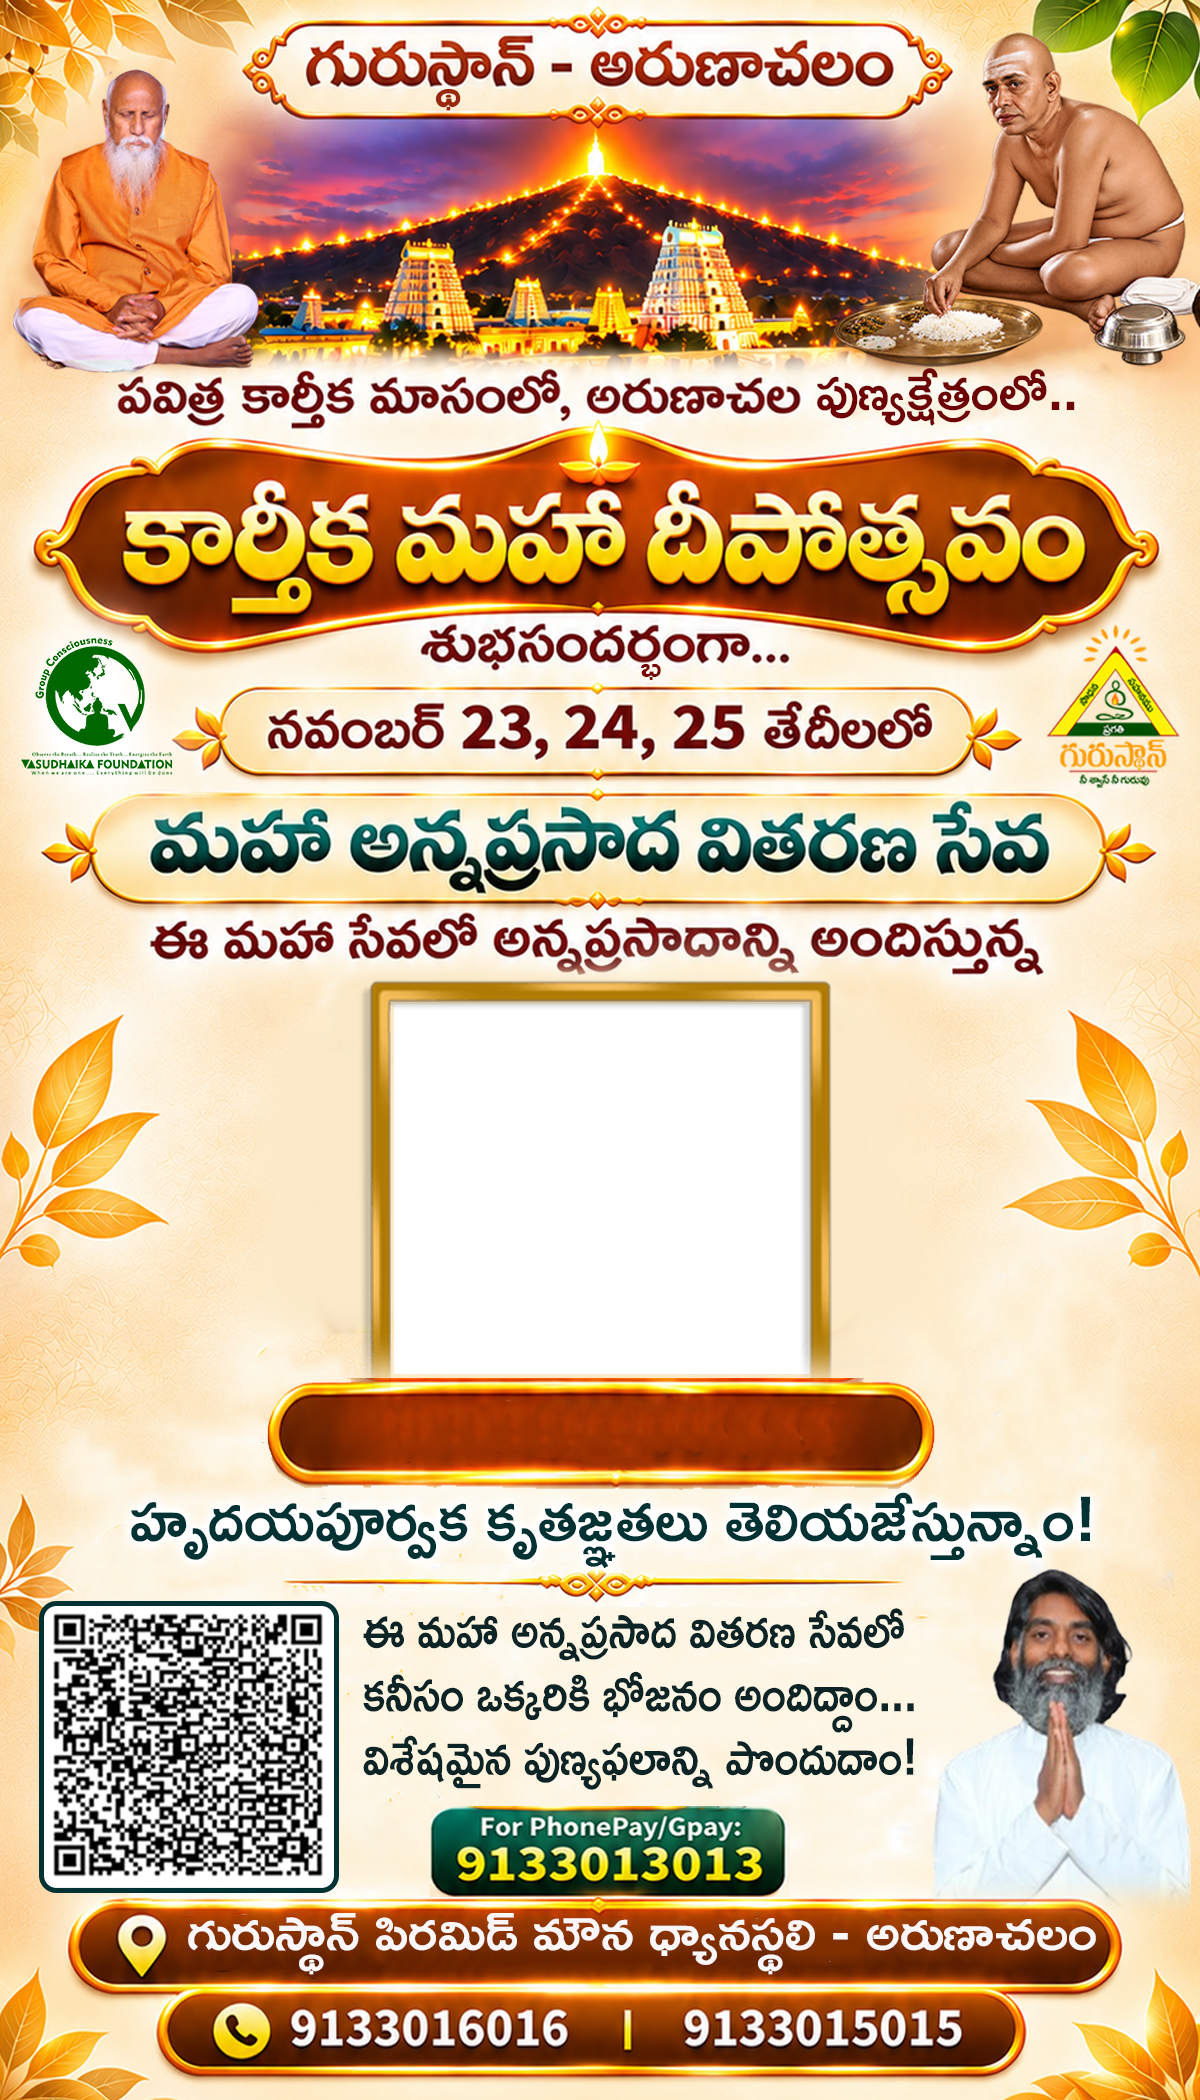
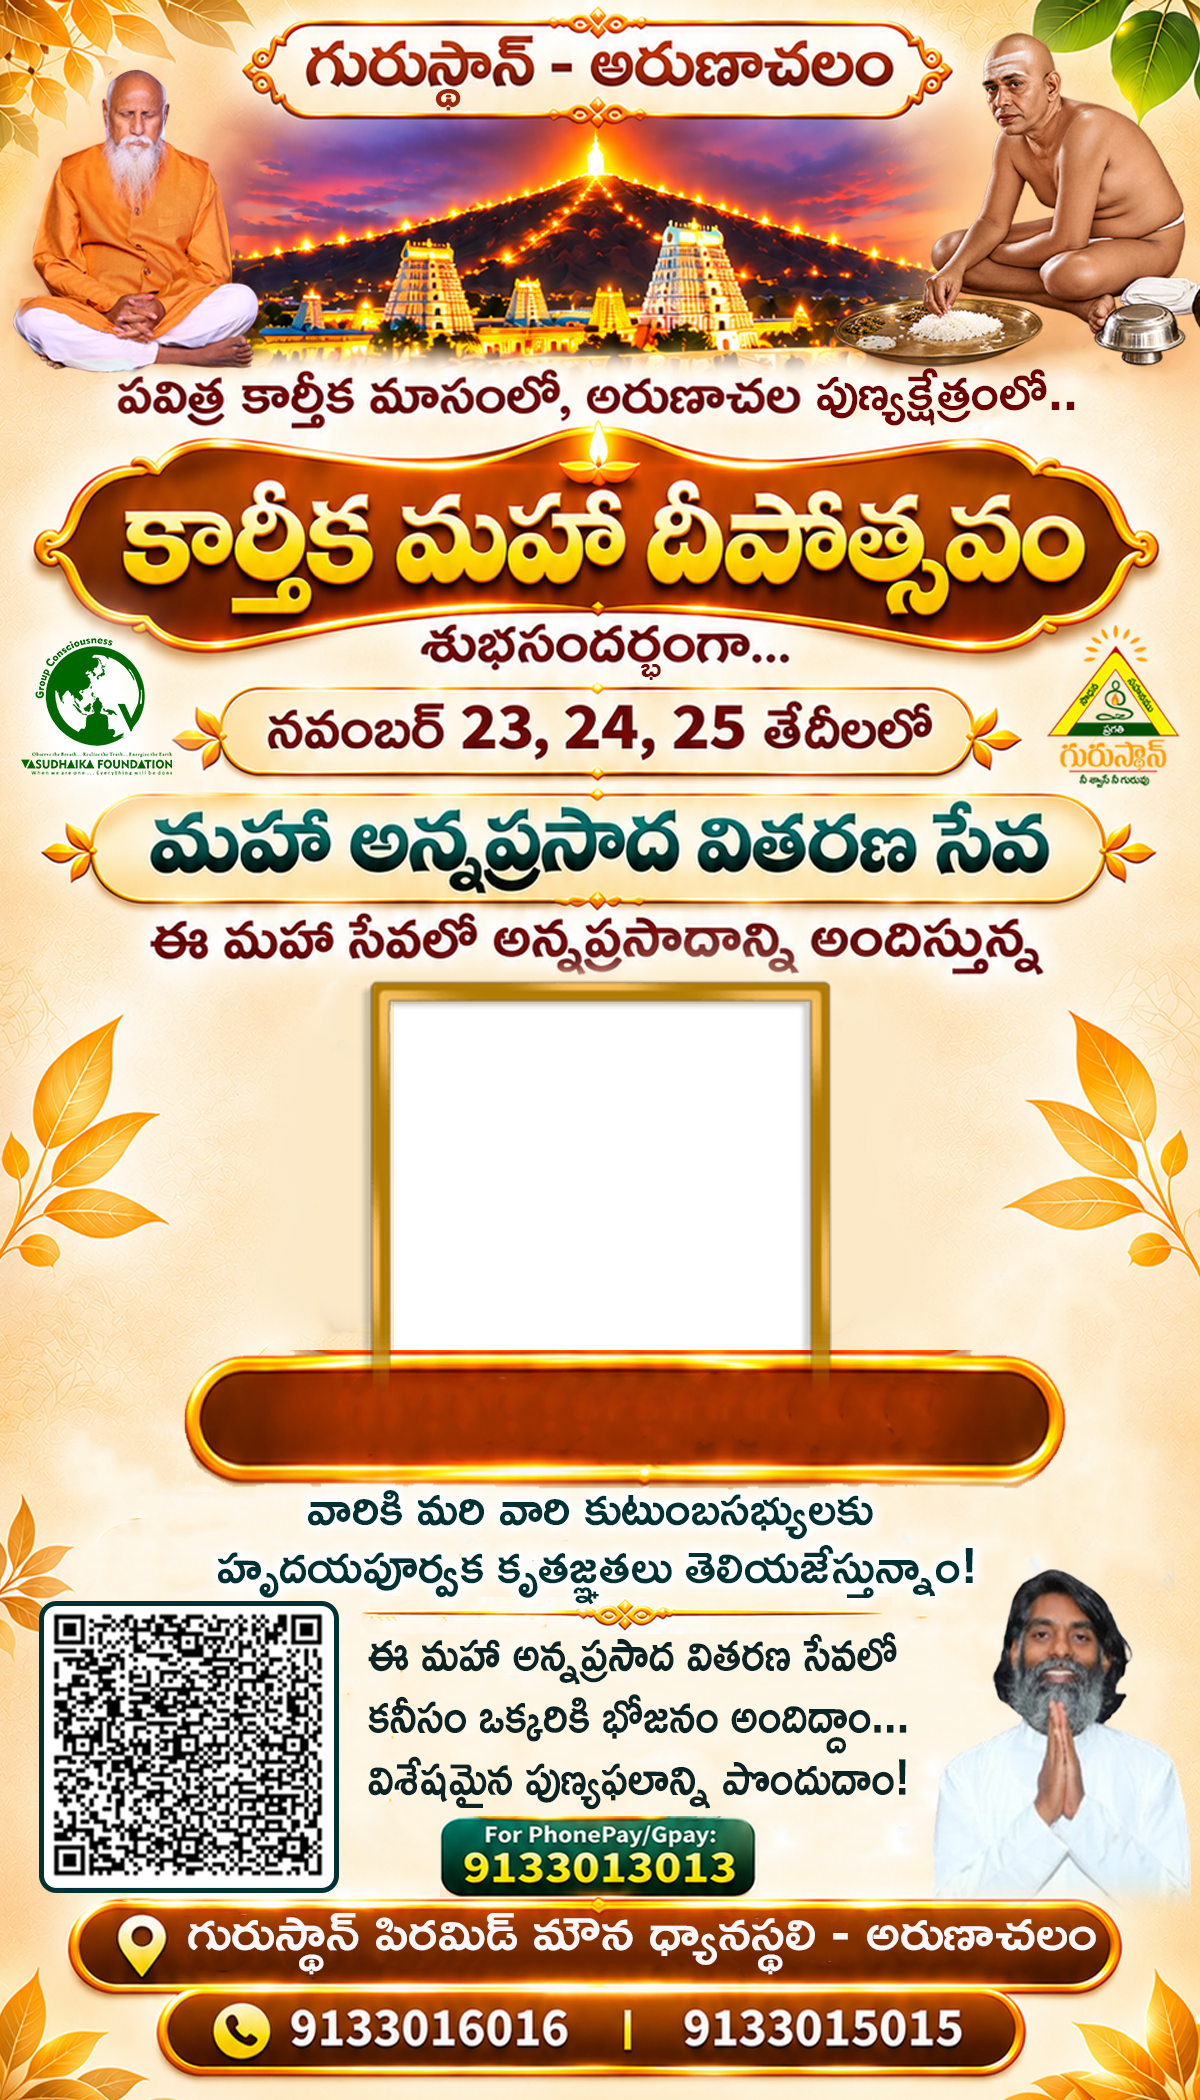
Update Mahadeepotsavam template image and sync photo cutout & ribbon coordinates

Changed region(s): [[0.0925, 0.619, 0.925, 0.9286]]

diff --git a/src/components/PosterPreview/DeepotsavamPreview.tsx b/src/components/PosterPreview/DeepotsavamPreview.tsx
@@ -34,14 +34,14 @@ export const DeepotsavamPreview: React.FC<Props> = ({
   const containerRef = useRef<HTMLDivElement>(null);
 
   // Exact coordinates matching the template (1200 x 2100)
-  // Photo frame bounds: x=394, y=1004, w=414, h=369
+  // Photo frame bounds: x=394, y=1004, w=415, h=346
   const photoLeft = `${(394 / 1200) * 100}%`;
   const photoTop = `${(1004 / 2100) * 100}%`;
-  const photoWidth = `${(414 / 1200) * 100}%`;
-  const photoHeight = `${(369 / 2100) * 100}%`;
+  const photoWidth = `${(415 / 1200) * 100}%`;
+  const photoHeight = `${(346 / 2100) * 100}%`;
 
-  // Name ribbon center: y = 1431.5 / 2100 = 68.17%, x = 600 / 1200 = 50.0%
-  const defaultTopPercent = 68.17;
+  // Name ribbon center: y = 1417.5 / 2100 = 67.5%, x = 600 / 1200 = 50.0%
+  const defaultTopPercent = 67.5;
   const defaultCenterPercent = 50.0;
   const defaultFontSize = 38;
 

diff --git a/src/canvas/imageRenderer.ts b/src/canvas/imageRenderer.ts
@@ -189,14 +189,14 @@ export const generateImage = async (
 // ============================================================================
 export const DEEPOTSAVAM_TEMPLATE_WIDTH = 1200;
 export const DEEPOTSAVAM_TEMPLATE_HEIGHT = 2100;
-export const DEEPOTSAVAM_PHOTO_AREA = { x: 394, y: 1004, width: 414, height: 369 };
+export const DEEPOTSAVAM_PHOTO_AREA = { x: 394, y: 1004, width: 415, height: 346 };
 export const DEEPOTSAVAM_NAME_RIBBON = {
-  x: 280,
-  y: 1395,
-  width: 640,
-  height: 73,
+  x: 200,
+  y: 1370,
+  width: 850,
+  height: 95,
   centerPercent: 50.0,
-  topPercent: 68.17, // 1431.5 / 2100
+  topPercent: 67.5, // 1417.5 / 2100
 };
 
 export const generateDeepotsavamImage = async (

diff --git a/src/components/Deepotsavam/DeepotsavamPosterPage.tsx b/src/components/Deepotsavam/DeepotsavamPosterPage.tsx
@@ -251,7 +251,7 @@ export const DeepotsavamPosterPage: React.FC<Props> = ({ onNavigateHome }) => {
       {isCropperOpen && data.rawMediaUrl && (
         <ImageCropper
           mediaSrc={data.rawMediaUrl}
-          aspectRatio={DEEPOTSAVAM_PHOTO_AREA.width / DEEPOTSAVAM_PHOTO_AREA.height} // 414 / 369 = 1.12195
+          aspectRatio={DEEPOTSAVAM_PHOTO_AREA.width / DEEPOTSAVAM_PHOTO_AREA.height} // 415 / 346 = 1.1994
           lang="te"
           onComplete={handleCropComplete}
           onCancel={() => setIsCropperOpen(false)}
